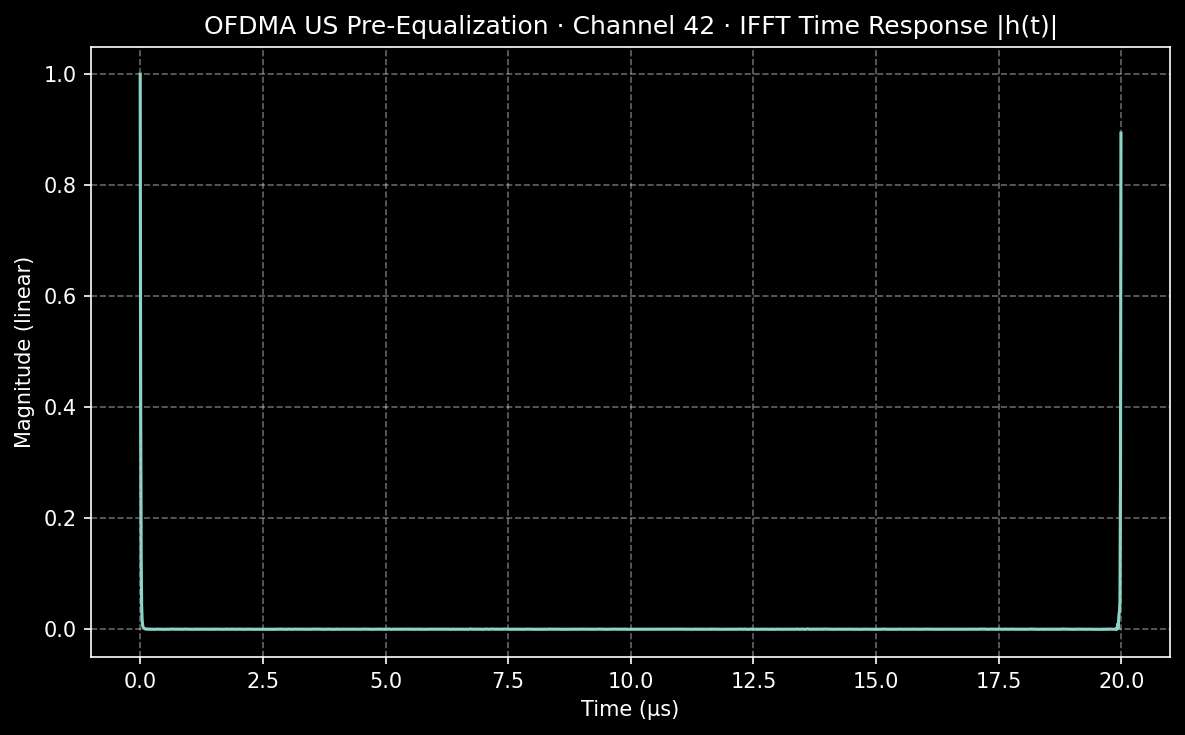
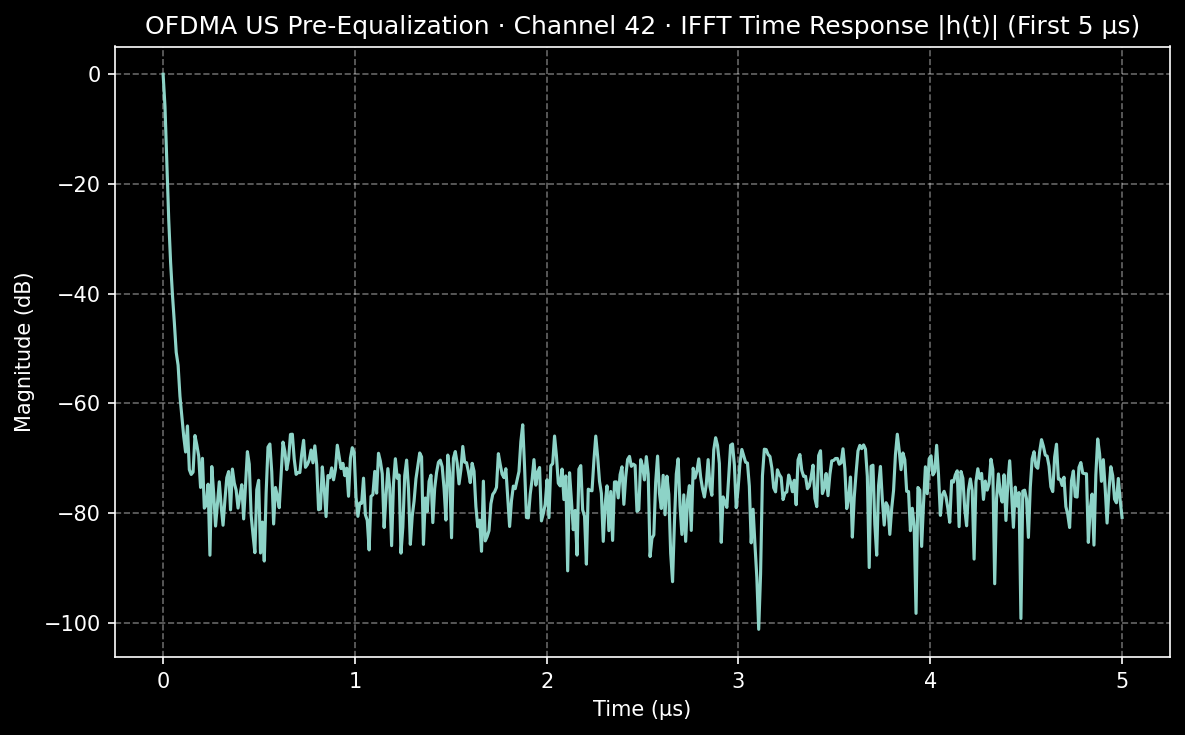
Update

diff --git a/src/pypnm/api/routes/basic/us_ofdma_pre_eq_analysis_rpt.py b/src/pypnm/api/routes/basic/us_ofdma_pre_eq_analysis_rpt.py
@@ -7,6 +7,7 @@ import logging
 import math
 from typing import Dict, List, cast
 
+import numpy as np
 from pydantic import BaseModel, ConfigDict, Field
 
 from pypnm.api.routes.advance.analysis.signal_analysis.detection.echo.echo_detector import EchoDetector
@@ -229,18 +230,35 @@ class CmUsOfdmaPreEqReport(AnalysisReport):
             try:
 
                 ifft: IfftTimeResponse = model.ifft
-                time_axis_us: ArrayLike = cast(ArrayLike, ifft.time_series_s)
-                mag_list: ArrayLike     = cast(ArrayLike, ifft.magnitude)
-                
-                time_axis_us = time_axis_us[:500]
-                mag_list = mag_list[:500]
-                
+                t_s  = np.asarray(ifft.time_series_s, dtype=float)   # seconds
+                mag  = np.asarray(ifft.magnitude, dtype=float)       # linear |h(t)|
+
+                # Limit to first 5 µs (0.000005 s)
+                mask = t_s <= 5e-6
+                if not np.any(mask):
+                    self.logger.warning(
+                        "No IFFT samples within first 5 us for channel %s; skipping IFFT plot.",
+                        channel_id,
+                    )
+                    continue
+
+                t_win_s = t_s[mask]
+                mag_win = mag[mask]
+
+                # Convert time axis to microseconds for plotting
+                time_axis_us = (t_win_s * 1e6).tolist()
+
+                # Exaggerate small echoes by plotting in dB instead of linear
+                eps      = 1e-12
+                mag_db   = 20.0 * np.log10(np.maximum(mag_win, eps))
+                mag_list = mag_db.tolist()
+
                 cfg = PlotConfig(
-                    title           = f"{prefix_title} · IFFT Time Response |h(t)|",
+                    title           = f"{prefix_title} · IFFT Time Response |h(t)| (First 5 µs)",
                     x               = time_axis_us,
                     xlabel          = "Time (µs)",
                     y               = mag_list,
-                    ylabel          = "Magnitude (linear)",
+                    ylabel          = "Magnitude (dB)",
                     grid            = True,
                     legend          = False,
                     transparent     = False,
@@ -255,7 +273,7 @@ class CmUsOfdmaPreEqReport(AnalysisReport):
                 matplot_mgr.append(mgr)
 
             except Exception as exc:
-                self.logger.exception("Failed to create OFDMA US Pre-EQ group-delay plot for channel %s: %s", channel_id, exc)
+                self.logger.exception("Failed to create OFDMA US Pre-EQ IFFT plot for channel %s: %s", channel_id, exc)
 
         if not any_models:
             self.logger.warning("No OFDMA US Pre-EQ analysis data available; no plots created.")
@@ -299,19 +317,23 @@ class CmUsOfdmaPreEqReport(AnalysisReport):
                 y: FloatSeries      = coerce_finite(y_raw, "raw_y")
                 y_hat: FloatSeries  = cast(FloatSeries, LinearRegression1D(cast(ArrayLike, y)).fitted_values())
 
-                # IFFT time series computation
-                det = EchoDetector(freq_data                =   cplex,
-                                   subcarrier_spacing_hz    =   subcarrier_spacing)
-                
-                t_s, h_t = det.ifft_time_series(window="hann", 
-                                                direct_at_zero=True, 
-                                                normalize_power=True)
-                time_axis_us = [t * 1e6 for t in t_s]
-                mag_list = [abs(h) for h in h_t]     
+                # IFFT time series computation (seconds + linear magnitude)
+                det = EchoDetector(
+                    freq_data              = cplex,
+                    subcarrier_spacing_hz  = subcarrier_spacing,
+                )
+
+                t_s, h_t = det.ifft_time_series(
+                    window          = "hann",
+                    direct_at_zero  = True,
+                    normalize_power = True,
+                )
+
+                mag_list = [abs(h) for h in h_t]
 
                 ifft_time_rsp = IfftTimeResponse(
-                    time_series_s   =   time_axis_us,
-                    magnitude       =   mag_list,
+                    time_series_s   = t_s,
+                    magnitude       = mag_list,
                 )
 
                 params = OfdmaPreEqParameters(

diff --git a/src/pypnm/api/routes/docs/pnm/us/ofdma/pre_equalization/router.py b/src/pypnm/api/routes/docs/pnm/us/ofdma/pre_equalization/router.py
@@ -82,7 +82,6 @@ class UsOfdmaPreEqualizationRouter:
 
             cps = CommonProcessService(msg_rsp)
             msg_rsp = cps.process()
-            msg_rsp.log_payload()
 
             analysis = Analysis(AnalysisType.BASIC, msg_rsp)
 

diff --git a/docs/api/fast-api/single/us/ofdma/pre-equalization.md b/docs/api/fast-api/single/us/ofdma/pre-equalization.md
@@ -133,9 +133,10 @@ When `analysis` and `analysis.plot.ui` are provided, this endpoint also generate
 
 | View Type  | Description |
 |------------|-------------|
-| [Magnitude with Fit](images/pre-eq/42_us_preeq_magnitude.png) | Magnitude vs. frequency with regression line overlay, showing overall tilt or slope  |
-| [Group Delay](images/pre-eq/42_us_preeq_groupdelay.png)        | Group delay vs. frequency derived from the complex carrier values                    |
-| [IQ Scatter](images/pre-eq/42_us_preeq_iqscatter.png)         | Complex scatter of in-phase (I) vs. quadrature (Q) coefficients                      |
+| [Magnitude with Fit](images/pre-eq/42_us_preeq_magnitude.png) | Magnitude vs. frequency with regression line overlay, showing overall tilt or slope               |
+| [Group Delay](images/pre-eq/42_us_preeq_groupdelay.png)       | Group delay vs. frequency derived from the complex carrier values                                 |
+| [IFFT Time Response](images/pre-eq/42_us_preeq_ifft.png)      | Time-domain impulse response \|h(t)\| (first 5 µs) derived from the pre-equalization coefficients |
+| [IQ Scatter](images/pre-eq/42_us_preeq_iqscatter.png)         | Complex scatter of in-phase (I) vs. quadrature (Q) coefficients                                   |
 
 ### Pre-Equalizer Coefficient Update Views
 
